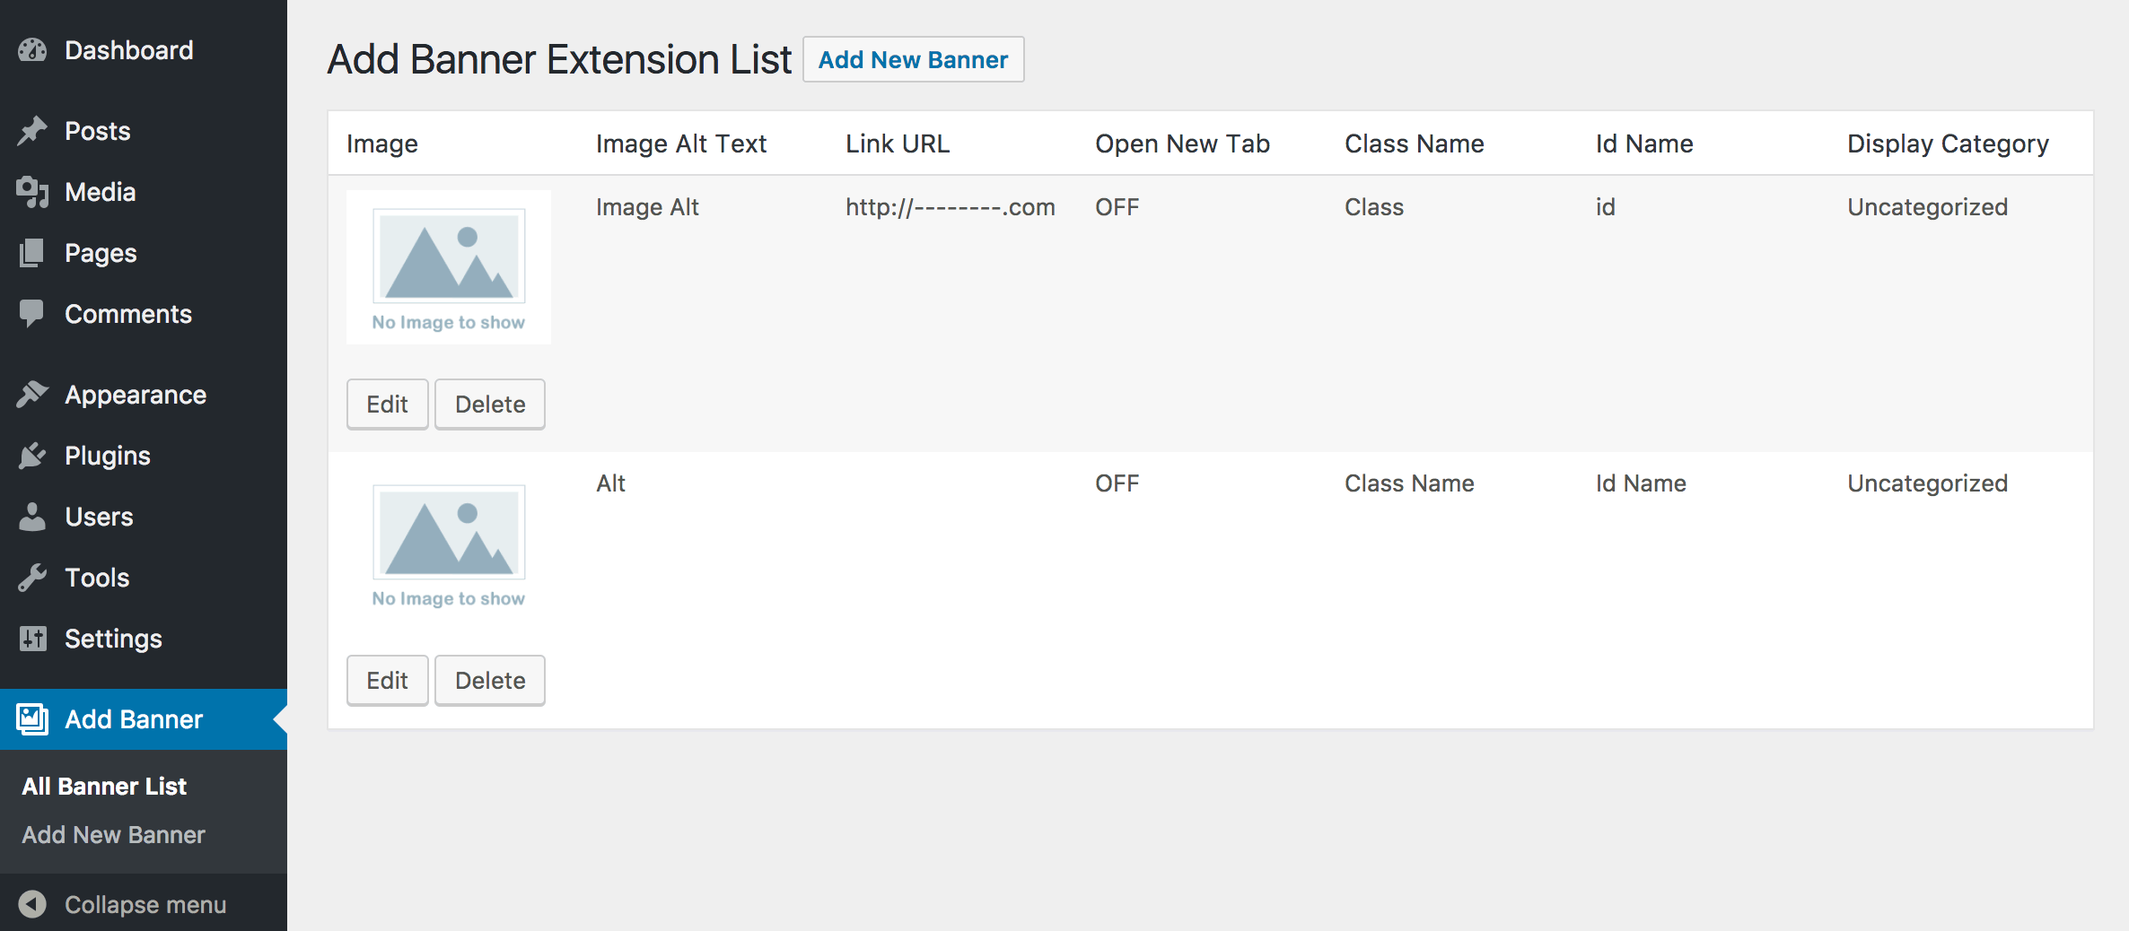
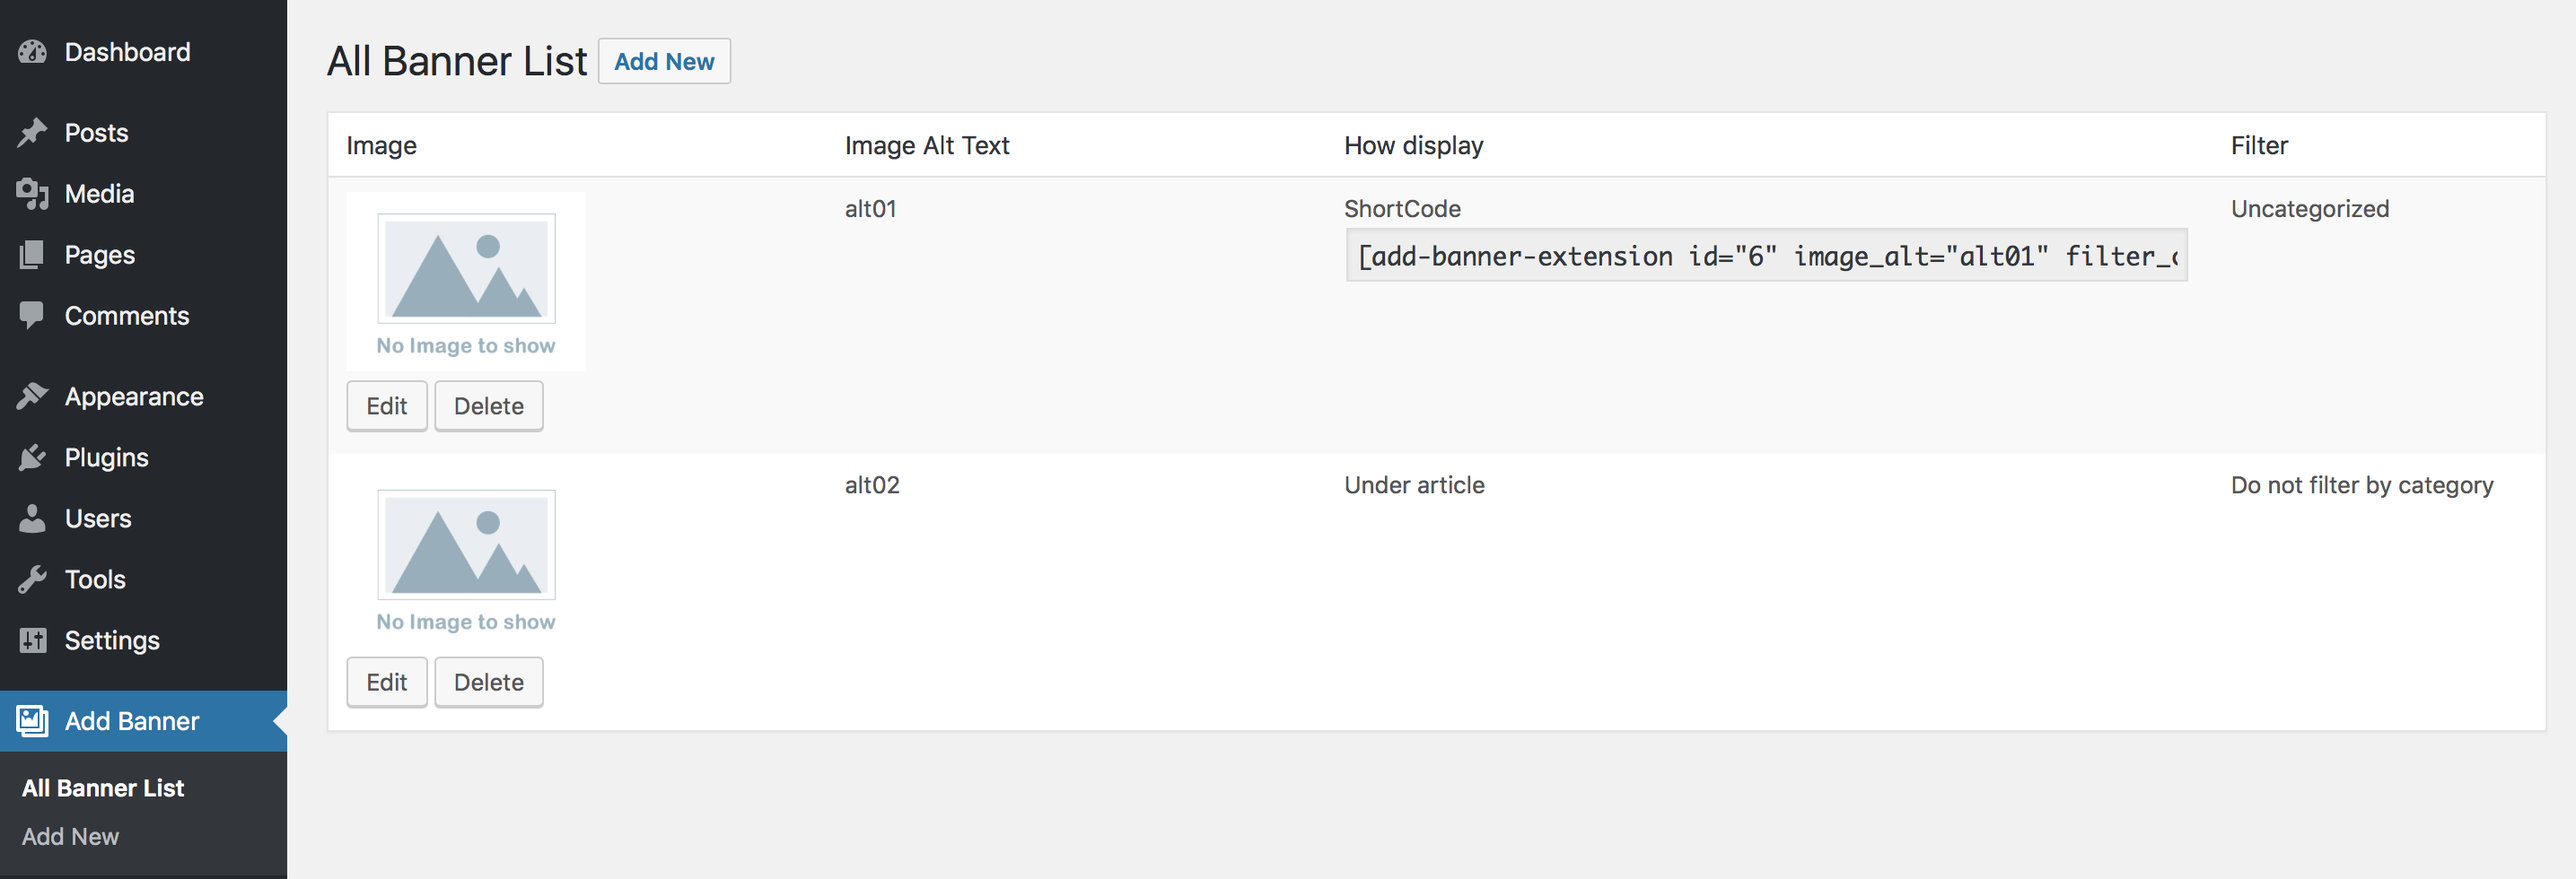
README.ja.md and screenshot change.

diff --git a/README.ja.md b/README.ja.md
@@ -21,7 +21,7 @@ Read this in other languages: <a href="./README.ja.md">日本語</a>
 
 * 管理画面のバナー新規追加画面で「画像を選択」ボタンを押すと、メディアアップローダーが開きます。既存の画像を選ぶか、画像をアップロードしてください。画像URLは相対パスで書くことも可能です。
 
-* 「表示方法」欄で、投稿記事の本文下に表示するか、ショートコードで表示するか選ぶことができます。ショートコードの数字を書き換えると、書き換えた方が優先されます（ただし、管理画面で登録していないと表示されません）。
+* 「表示方法」欄で、投稿記事の本文下に表示するか、ショートコードで表示するか選ぶことができます。ショートコードで表示するときに、ショートコードの数字を書き換えると書き換えたものが優先されます（ただし、"id"は管理画面で登録したものと一致しないと表示されません）。
 
 * 「カテゴリーでフィルタリング」にチェックを入れると、登録したカテゴリーに紐づくページにバナーが表示されます。同じカテゴリーに複数画像を表示可能です。チェックを入れなかった場合は、すべてのページにおいて無条件にバナーが表示されます。
 
@@ -36,9 +36,8 @@ Read this in other languages: <a href="./README.ja.md">日本語</a>
 ```
 
 ### 注意
-* テーマや使用しているプラグインによっては、バナー画像の表示の位置が変わったり、バナーが複数表示される可能性があります。「Twenty Seventeen」のテーマでは動作確認済みです。
-* 「カテゴリーでフィルタリング」にチェックを入れた場合、投稿記事の本文下表示では投稿のみ、ショートコードでは投稿とカテゴリーページのみでしか表示されません。
-* 対応している投稿タイプは投稿のみです。現在、固定ページやカスタム投稿には対応していません。また、タグやカスタムタクソノミーにも対応していません。
+* 使用しているテーマやプラグインによっては、バナー画像の表示の位置が変わったり、バナーが複数表示される可能性があります。「Twenty Seventeen」のテーマでは動作確認済みです。
+* 「カテゴリーでフィルタリング」にチェックを入れた場合、対応している投稿タイプは投稿のみ（投稿記事ページとカテゴリーページ）です。現在、固定ページやカスタム投稿には対応していません。また、タグやカスタムタクソノミーにも対応していません。
 
 
 ## よくある質問
@@ -59,16 +58,15 @@ Read this in other languages: <a href="./README.ja.md">日本語</a>
 カテゴリーに記事が公開されてないと、プルダウンメニューには表示されません。
 
 ## スクリーンショット
-!!!!!!!管理画面の登録の仕方。
 1. 登録したバナー画像一覧が表示されます。
-2. バナー画像登録・編集画面。項目:画像URL、画像Alt属性、画像のリンクURL、新規タブでリンクを開くか、class属性、ID属性、表示カテゴリ
+2. バナー画像登録・編集画面。項目:画像URL、画像Alt属性、画像のリンクURL、新規タブでリンクを開くか、class属性、ID属性、表示方法（投稿下かショートコードか）、カテゴリーでフィルタリング、表示カテゴリ
 
 
 ## 変更ログ
 
 ###2.0.0 (2017-07-19)
-* ショートコードでバナーを表示できる機能追加(無条件に表示 & カテゴリーで限定して表示。ショートコードで書いた数字が優先される)
-* 記事下にバナーを表示する機能が、「カテゴリーで絞らず、無条件に表示」も選べるように
+* ショートコードでバナーを表示できる機能追加
+* バナーの表示を「カテゴリーで限定して表示」か、「カテゴリーで絞らず、無条件に表示」で選べるように変更
 
 ###1.0.2 (2017-05-19)
 * WordPress バージョン 4.7.5 動作チェック
